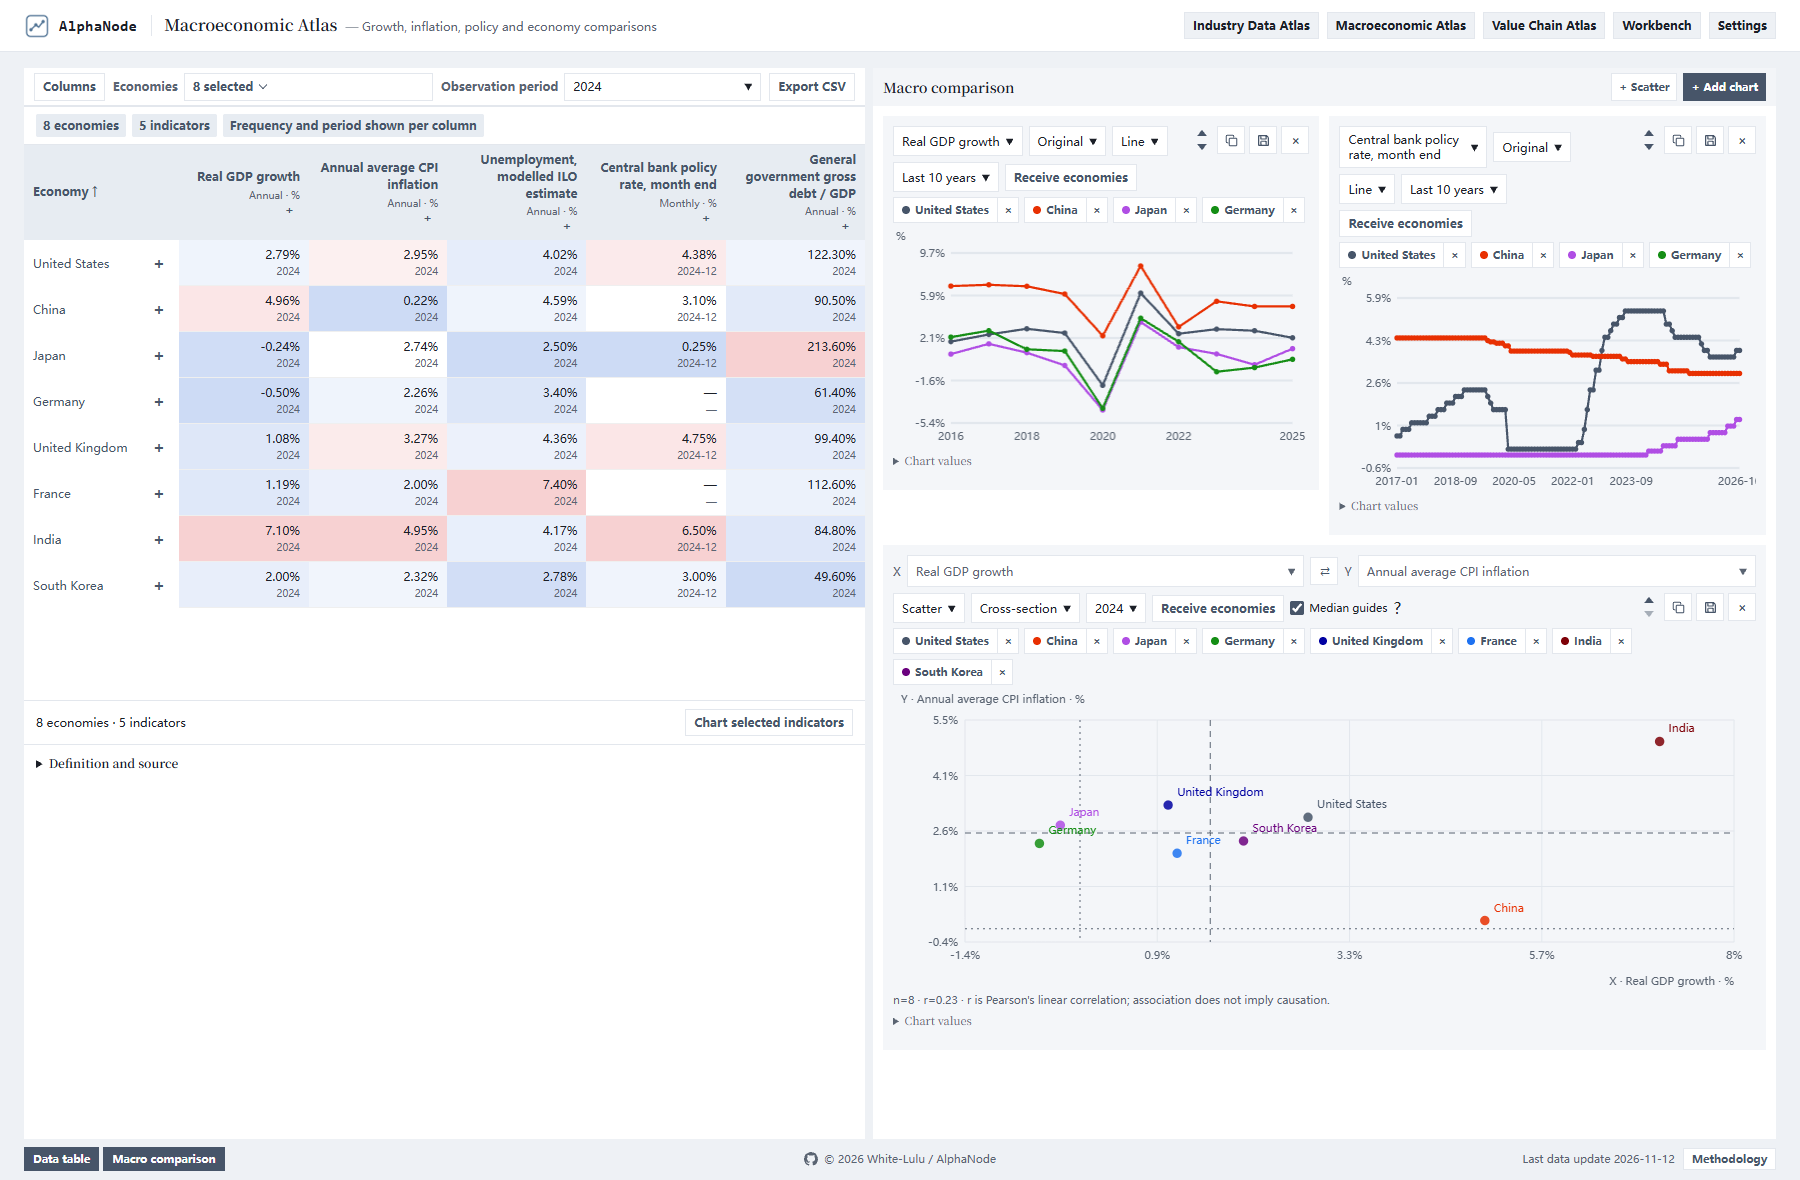
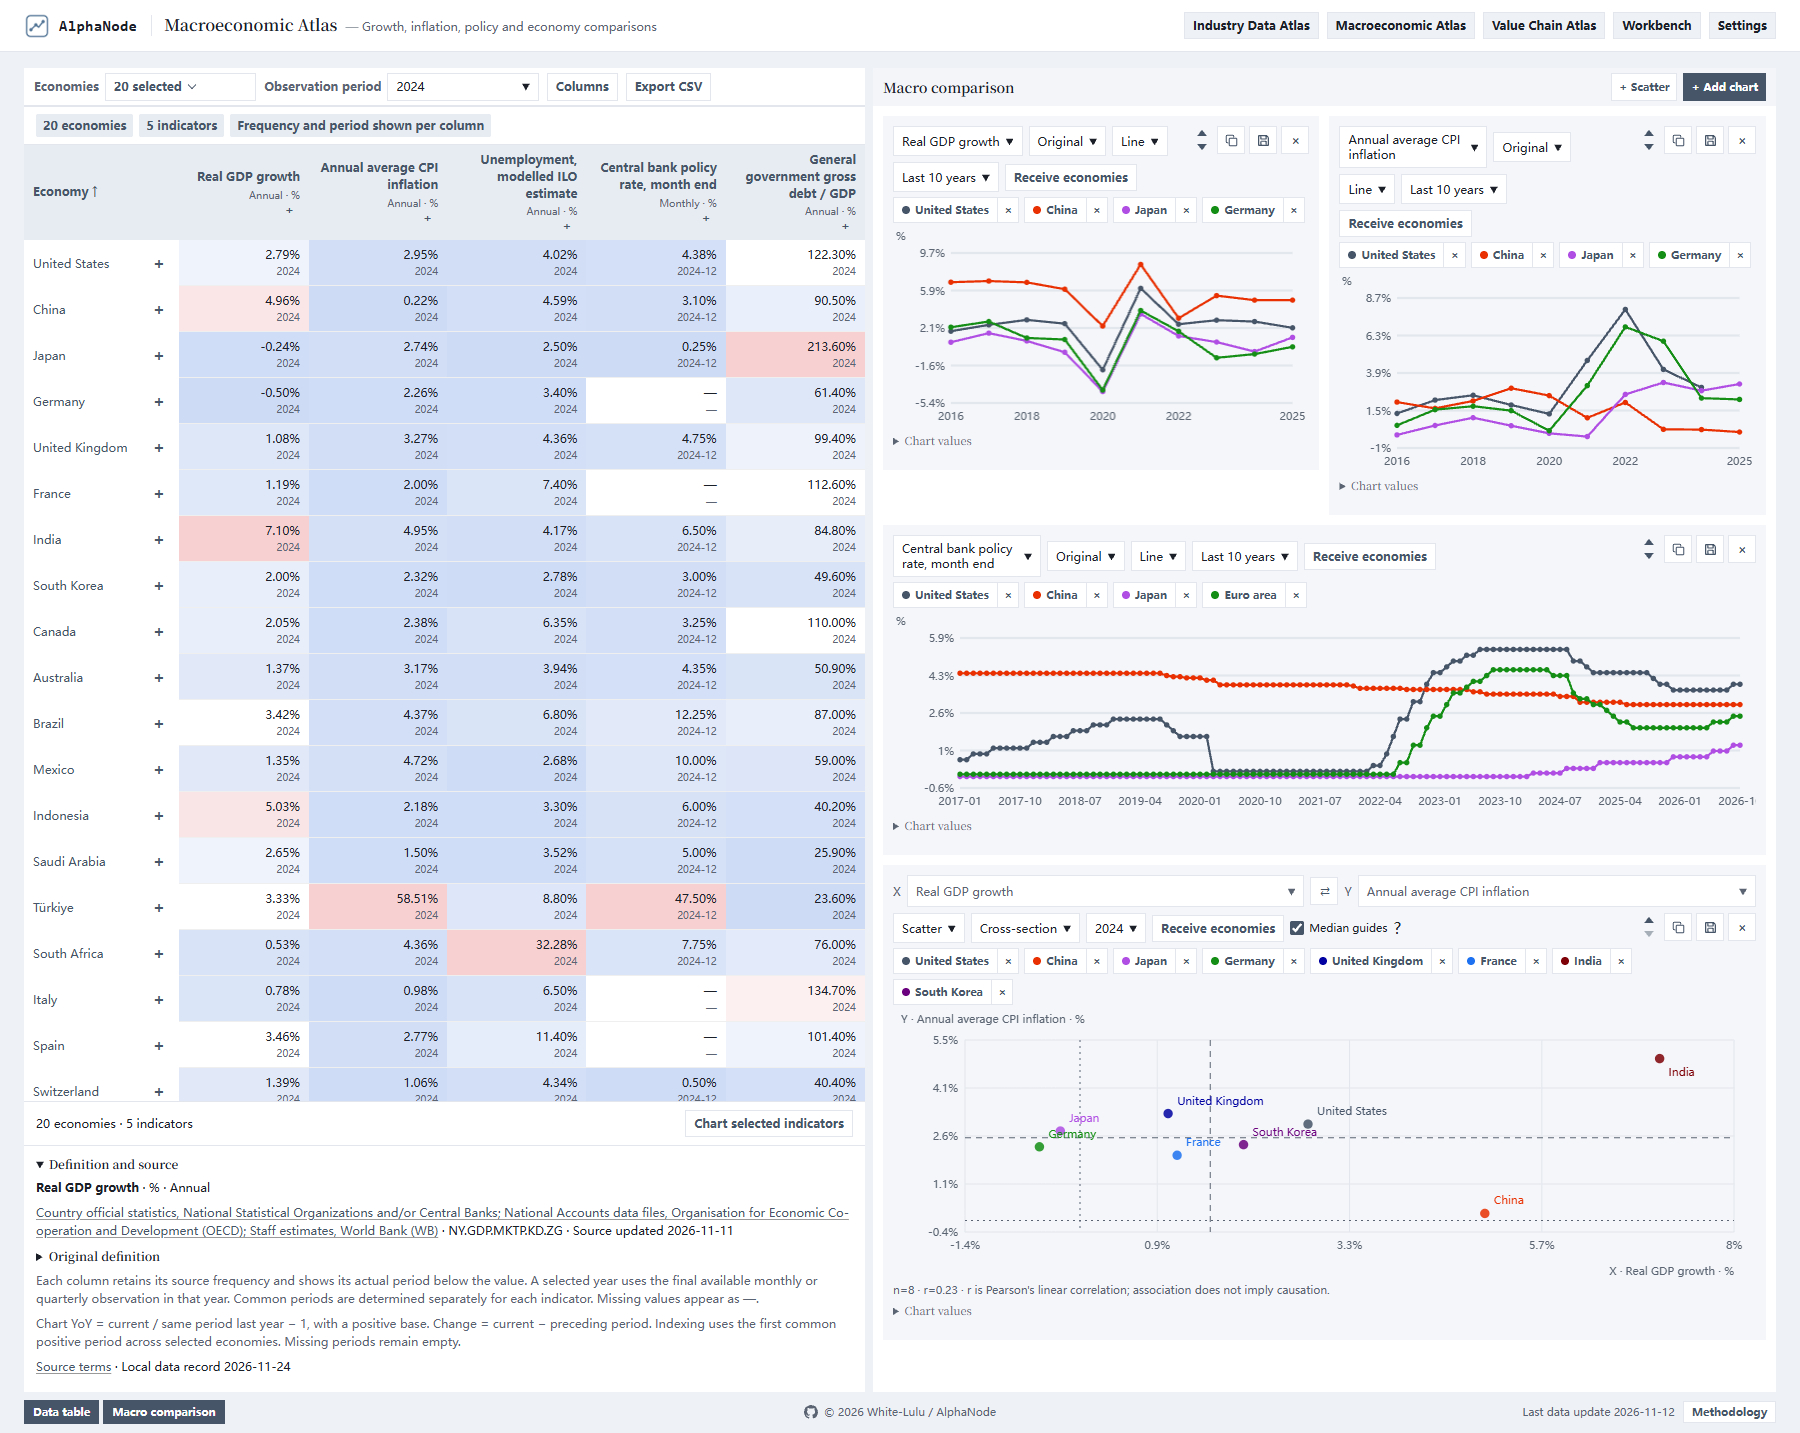
Sync README edits and improve macro atlas layout and examples

diff --git a/dist/macro.css b/dist/macro.css
@@ -1,7 +1,7 @@
 #macro-page { position:relative; display:grid; grid-template-columns:minmax(0,1fr); min-width:0; min-height:0; gap:8px; }
 #macro-page[data-split=true] { grid-template-columns:minmax(280px,var(--macro-data-width,44%)) minmax(0,1fr); }
 .macro-data,.macro-comparison { display:flex; flex-direction:column; min-width:0; min-height:0; overflow:hidden; }
-.macro-data { container-type:inline-size; --macro-economy-width:clamp(110px,var(--macro-economy-width-override,155px),min(620px,max(110px,calc(100cqw - 88px)))); }
+.macro-data { align-self:start; max-height:100%; container-type:inline-size; --macro-economy-width:clamp(110px,var(--macro-economy-width-override,155px),min(620px,max(110px,calc(100cqw - 88px)))); }
 .macro-data .macro-toolbar { gap:8px; flex:none; flex-wrap:nowrap; overflow-x:auto; height:var(--pane-header-height); padding-block:4px; }
 .macro-toolbar :is(select,.filter-picker-trigger,button) { min-height:28px; padding-block:4px; line-height:18px; white-space:nowrap; }
 .macro-toolbar > button { flex:none; }
@@ -12,7 +12,7 @@
 .macro-toolbar .filter-picker-trigger { width:100%; }
 .macro-toolbar select { width:clamp(130px,18cqw,180px); }
 .macro-context { flex:none; padding:7px 12px; border-block:1px solid var(--border); }
-.macro-scroll { flex:1; min-height:0; scroll-padding-inline-start:var(--macro-economy-width); }
+.macro-scroll { flex:0 1 auto; min-height:0; max-height:none; scroll-padding-inline-start:var(--macro-economy-width); }
 .macro-table { width:100%; font-size:12px; }
 .macro-table :is(th,td) { min-width:130px; padding:7px 9px; }
 .macro-table tbody th { z-index:1; text-align:start; font-weight:400; background:var(--surface); }

diff --git a/README.en.md b/README.en.md
@@ -6,7 +6,9 @@
 
 AlphaNode is a dashboard for studying market fundamentals. Compare industries side by side, then look at the companies behind the averages to see how they earn profits and turn invested capital into returns.
 
-The Value Chain Atlas follows production from raw materials and components through tools to finished goods. It also shows where representative companies participate. The Macroeconomic Atlas compares growth, inflation, employment and interest rates across economies.
+The Value Chain Atlas follows production from raw materials and components through tools to finished goods. It also shows where representative companies participate.
+
+The Macroeconomic Atlas compares growth, inflation, employment and interest rates across economies.
 
 The initial financial dataset covers **2016–2025**, with **1,208 companies**, **42 economies** and **11,354 company-years**. The securities directory has **121,601 current and historical listing records**, with **1,165 companies** matched to local financial data.
 
@@ -36,9 +38,7 @@ Compare multiple pathways from the catalog. Click a node for its inputs, outputs
 
 ![Macroeconomic Atlas workflow. Choose indicators from eight topics, compare economies in a multi-column table, chart time series or paired scatter points, then save them to the Workbench.](docs/images/en/macro-flow.svg)
 
-The Macroeconomic Atlas contains 75 indicators across 59 economies and regional aggregates. Its eight topics cover growth, inflation, labour, money and rates, fiscal policy, external balances, credit and housing, and economic structure. Compare latest, common or specified periods, sort and export the table, and draw line, bar or scatter charts. Scatter plots compare economies in the same period or trace each economy through time, pairing only observations at the same frequency and reference period. Apply year-on-year growth, period changes or a common starting index, then save charts to the Workbench for comparison and AI analysis. Annual, quarterly and monthly series retain their original frequency and missing periods remain empty.
-
-Definitions link to [World Bank WDI](https://datahelpdesk.worldbank.org/knowledgebase/articles/889392), [IMF DataMapper](https://www.imf.org/external/datamapper/api/help), [BIS](https://stats.bis.org/api-doc/v1/) and [FRED](https://fred.stlouisfed.org/), with source standards and terms. Historical IMF data may include estimates. Central and general government series, and economy-specific policy rate definitions, remain separately identified.
+The Macroeconomic Atlas contains 75 indicators across 59 economies and regional aggregates. Its eight topics cover growth, inflation, labour, money and rates, fiscal policy, external balances, credit and housing, and economic structure.
 
 ### Adjust the display
 
@@ -148,11 +148,11 @@ This first version is ready for learning how processes, inputs and outputs fit t
 
 #### ⑥ Put the companies in their macroeconomic setting
 
-Xiaoba opens **Macroeconomic Atlas**, selects real GDP growth, annual average CPI inflation, unemployment, policy rates and government debt in **Columns**, and chooses economies of interest. He sets the observation year to **2024**. Each cell shows its actual reference period, keeping monthly rates distinct from annual statistics.
+Xiaoba opens **Macroeconomic Atlas**, selects real GDP growth, annual average CPI inflation, unemployment, policy rates and government debt in **Columns**, and chooses economies of interest. He sets the observation year to **2024**. Each cell shows its actual reference period, keeping monthly rates distinct from annual statistics. Clicking a value opens its definition and source below the table.
 
-He plots growth and policy rates through time, then adds a scatter plot with real GDP growth on X and CPI inflation on Y to compare economies in **2024**. He can save either chart to the **Workbench** and place it alongside the industry charts. The scatter plot suggests relationships to investigate; the positions of the points alone do not explain their causes.
+He plots growth, inflation and policy rates through time, then adds a scatter plot with real GDP growth on X and CPI inflation on Y to compare economies in **2024**. He can save either chart to the **Workbench** and place it alongside the industry charts. The scatter plot suggests relationships to investigate; the positions of the points alone do not explain their causes.
 
-![Multiple macroeconomic indicators in the table, growth and policy-rate time series, and a 2024 growth-versus-inflation scatter plot.](docs/images/en/macro.png)
+![Twenty selected economies and multiple indicators, with the definition and source expanded below; growth, inflation and policy-rate time series, and a 2024 growth-versus-inflation scatter plot on the right.](docs/images/en/macro.png?v=20261125)
 
 #### ⑦ Read financial terms in a high-contrast theme
 
@@ -171,6 +171,7 @@ Xiaoba often researches at night and prefers a high-contrast display. In **Setti
 | Product markets | [IEA EV data](https://www.iea.org/data-and-statistics/data-tools/global-ev-data-explorer), [EIA-861](https://www.eia.gov/electricity/data/eia861/) and EIA gasoline data. AlphaNode estimates EV shares outside China, state-level electricity retail shares and HHI, and gasoline demand elasticity using monthly EIA data and CPI. |
 | Securities directory and stock prices | The directory uses a pinned version of [FinanceDatabase](https://github.com/JerBouma/FinanceDatabase), with inferred primary listings and filing links. Adjusted weekly stock prices are requested on demand from Yahoo Finance. |
 | Value Chain Atlas | Processes and materials draw on [USGS mineral summaries](https://www.usgs.gov/centers/national-minerals-information-center/mineral-commodity-summaries), [US Department of Energy battery supply chains](https://www.energy.gov/sites/default/files/2024-12/Supply_Chain_Readiness_Level_SCRL_Analysis_Nov-2024_2024.12.20.pdf#page=15), [ASML’s chipmaking guide](https://www.asml.com/en/technology/all-about-microchips/how-microchips-are-made) and company filings. Node details link to sources for typical processes and disclosed company relationships. |
+| Macroeconomic Atlas | [World Bank WDI](https://data.worldbank.org/), [IMF DataMapper / WEO](https://www.imf.org/external/datamapper/), [BIS](https://data.bis.org/) and [FRED](https://fred.stlouisfed.org/). Retain indicator definitions, publishers and annual, quarterly or monthly frequencies. AlphaNode computes year-on-year growth, period changes and baseline indices. Scatter plots pair the same frequency and reference period without interpolating missing values. IMF historical data may include estimates; definitions distinguish government levels and policy-rate series. |
 
 Worldwide company totals cover the project's sample. Official statistics retain the source's coverage. Year-over-year growth in industry amounts uses a matched sample, and changes in profitability ratios use percentage points. Missing reports, invalid denominators and inapplicable metrics appear as blank values. Use **Methodology** or click a table value for its source and calculation.
 
@@ -219,7 +220,7 @@ python -m venv .venv
 
 ### Upstream projects
 
-| Project | How AlphaNode uses it |
+| Project / interface | How AlphaNode uses it |
 | --- | --- |
 | [Crible](https://github.com/maxgfr/crible) | Screening expression parsing, SQL compilation, Altman Z″ and Zmijewski diagnostics. |
 | [FinanceToolkit](https://github.com/JerBouma/FinanceToolkit) | DuPont ROE decomposition and Altman ratio functions. |
@@ -228,6 +229,7 @@ python -m venv .venv
 | [OpenBB](https://github.com/openbq-org/OpenBB) | Federal Reserve H.15 access and ECB series selection. |
 | [Apache Superset](https://github.com/apache/superset) | Common-base-year transformation for trend charts. |
 | [markdown-it](https://github.com/markdown-it/markdown-it) | Markdown rendering for AI analysis. |
+| [World Bank WDI](https://datahelpdesk.worldbank.org/knowledgebase/articles/889392), [IMF DataMapper](https://www.imf.org/external/datamapper/api/help), [BIS SDMX](https://stats.bis.org/api-doc/v1/) and [FRED](https://fred.stlouisfed.org/) | Collect macro indicators directly through official interfaces and public CSV files, retaining source links, series identifiers and terms. |
 
 ## 6. Roadmap
 

diff --git a/README.md b/README.md
@@ -158,11 +158,11 @@ Adobe 的两条线还受同一件事影响。2024 财年的 **10 亿美元 Figma
 
 #### ⑥ 把企业放回宏观环境里看
 
-看完企业和产业链，小八又想知道，它们面对的是怎样的经济环境。他打开「宏观经济图谱」，在「指标列」同时选出实际 GDP 增速、CPI 年均通胀率、失业率、央行政策利率和政府债务，再勾选几个感兴趣的经济体，把观察期设为 **2024 年**。每列都标着实际期间，月度利率与年度统计也能分清。
+看完企业和产业链，小八又想知道，它们面对的是怎样的经济环境。他打开「宏观经济图谱」，在「指标列」同时选出实际 GDP 增速、CPI 年均通胀率、失业率、央行政策利率和政府债务，再勾选一组感兴趣的经济体，把观察期设为 **2024 年**。每列都标着实际期间，月度利率与年度统计也能分清。点数值还能在下方核对指标定义和来源。
 
-小八用折线图回看增长和利率的变化，再添加散点图，把实际 GDP 增速放在 X 轴、CPI 年均通胀率放在 Y 轴，比较 **2024 年**各经济体的位置。遇到想继续追查的组合，就保存到「工作台」，与前面的行业图表一起看。散点图提供的是共同变化的线索，不能单凭点的位置解释原因。
+小八用折线图回看增长、通胀和利率的变化，再添加散点图，把实际 GDP 增速放在 X 轴、CPI 年均通胀率放在 Y 轴，比较 **2024 年**各经济体的位置。遇到想继续追查的组合，就保存到「工作台」，与前面的行业图表一起看。散点图提供的是共同变化的线索，不能单凭点的位置解释原因。
 
-![宏观经济图谱。左侧同时查看多个经济体的增长、通胀、就业、利率和债务，右侧用增长与利率折线图及 2024 年增长—通胀散点图对照。](docs/images/macro.png)
+![宏观经济图谱。左侧选择二十个经济体，同时查看增长、通胀、就业、利率和债务，下方展开指标说明与来源；右侧用增长、通胀、利率折线图及 2024 年增长—通胀散点图对照。](docs/images/macro.png?v=20261125)
 
 #### ⑦ 辅助学习
 
@@ -183,6 +183,7 @@ Adobe 的两条线还受同一件事影响。2024 财年的 **10 亿美元 Figma
 | 产品市场 | 读取 [IEA 电动车数据](https://www.iea.org/data-and-statistics/data-tools/global-ev-data-explorer)、[EIA-861](https://www.eia.gov/electricity/data/eia861/) 和 EIA 汽油数据。项目据此计算海外 EV 渗透率、州级售电 HHI 和市占率，并用 EIA 月度数据和 CPI 回归估算汽油需求弹性。 |
 | 证券目录和股价 | 目录来自锁定版本的 [FinanceDatabase](https://github.com/JerBouma/FinanceDatabase)，推定主上市及财报链接由项目生成。股价按需读取 Yahoo Finance 的周频复权数据。 |
 | 产业链图谱 | 工序和投入参考 [美国地质调查局矿产资料](https://www.usgs.gov/centers/national-minerals-information-center/mineral-commodity-summaries)、[美国能源部电池供应链](https://www.energy.gov/sites/default/files/2024-12/Supply_Chain_Readiness_Level_SCRL_Analysis_Nov-2024_2024.12.20.pdf#page=15)、[ASML 芯片制造流程](https://www.asml.com/en/technology/all-about-microchips/how-microchips-are-made) 和企业年报。节点详情标注通用工艺示例及有披露支持的企业关系，并附原始链接。 |
+| 宏观经济图谱 | 来自 [世界银行 WDI](https://data.worldbank.org/)、[IMF DataMapper／WEO](https://www.imf.org/external/datamapper/)、[BIS](https://data.bis.org/) 和 [FRED](https://fred.stlouisfed.org/)，保留指标定义、发布机构及年度、季度或月度频率。同比、较上期变化和基期指数由项目计算；散点图按同频率、同期间配对，缺失期不插值。IMF 历史数据可能含估计，政府层级和政策利率定义见指标说明。 |
 
 行业财务的「全球」指纳入样本中的全球企业。官方统计保留各机构的调查范围，产品市场保留各自的分母。行业财务金额同比在共同样本上计算，利润率同比用百分点表示。缺报、无效基数和不适用指标保留空值。页面右下角的「数据说明」与表格数值明细提供更具体的出处与公式。
 
@@ -229,7 +230,7 @@ python -m venv .venv
 
 ### 接入与参考项目
 
-| 项目 | 实际用途 |
+| 项目／接口 | 实际用途 |
 | --- | --- |
 | [Crible](https://github.com/maxgfr/crible) | 高级表达式解析、SQL 编译、Altman Z″ 和 Zmijewski 诊断。 |
 | [FinanceToolkit](https://github.com/JerBouma/FinanceToolkit) | 杜邦 ROE 拆解及 Altman 比率函数。 |
@@ -238,6 +239,7 @@ python -m venv .venv
 | [OpenBB](https://github.com/openbq-org/OpenBB) | 美联储 H.15 数据接入及 ECB 序列选择。 |
 | [Apache Superset](https://github.com/apache/superset) | 趋势对照的共同基年变换。 |
 | [markdown-it](https://github.com/markdown-it/markdown-it) | AI 分析的 Markdown 渲染。 |
+| [世界银行 WDI](https://datahelpdesk.worldbank.org/knowledgebase/articles/889392)、[IMF DataMapper](https://www.imf.org/external/datamapper/api/help)、[BIS SDMX](https://stats.bis.org/api-doc/v1/) 与 [FRED](https://fred.stlouisfed.org/) | 宏观指标通过官方接口及公开 CSV 直接采集，保留来源链接、序列标识和使用条款。 |
 
 ## 6. 未来计划
 
